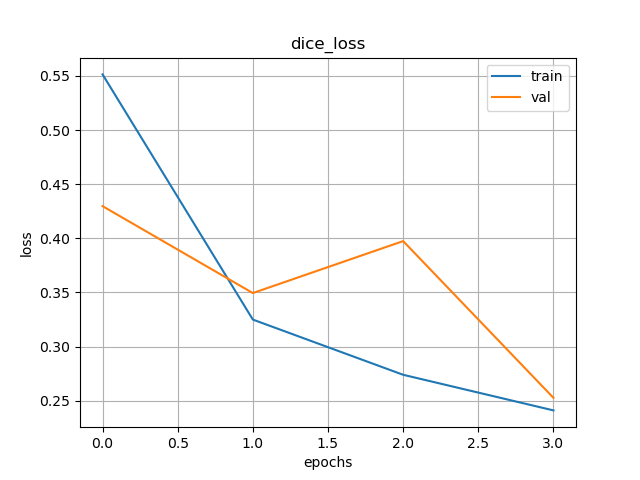
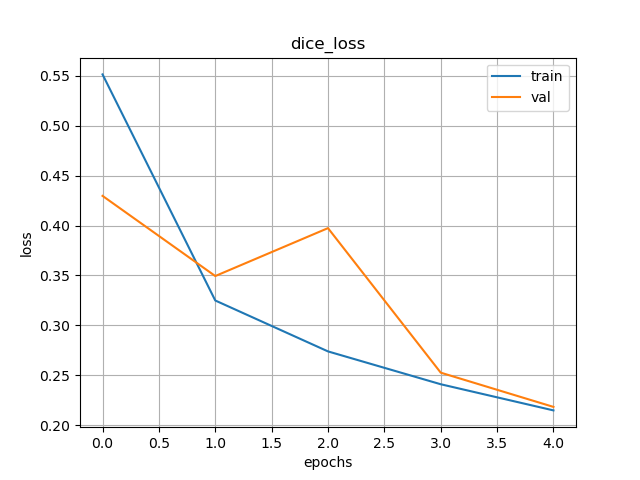
no comment

diff --git a/train.py b/train.py
@@ -217,8 +217,8 @@ if __name__ == '__main__':
     parser.add_argument('-bs', '--batch_size', type=int, default=16)
     parser.add_argument('--lr', type=float, default=1e-3)
     parser.add_argument('-es', '--early_stop', type=int, default=6) 
-    parser.add_argument('-rc', '--random_csv', type=str, default='../../qml-data/csv_files/train_75_org.csv') 
-    parser.add_argument('-trc', '--train_csv', type=str, default='../../qml-data/csv_files/train_75_org.csv') 
+    parser.add_argument('-rc', '--random_csv', type=str, default='../../qml-data/csv_files/whole_99_org.csv') 
+    parser.add_argument('-trc', '--train_csv', type=str, default='../../qml-data/csv_files/whole_99_org.csv') 
     parser.add_argument('-vc', '--val_csv', type=str, default='../../qml-data/csv_files/val_10_org.csv') 
     parser.add_argument('-tc', '--test_csv', type=str, default='../../qml-data/csv_files/test_14_org.csv') 
     parser.add_argument('-ic', '--in_ch', type=int, default=1)
